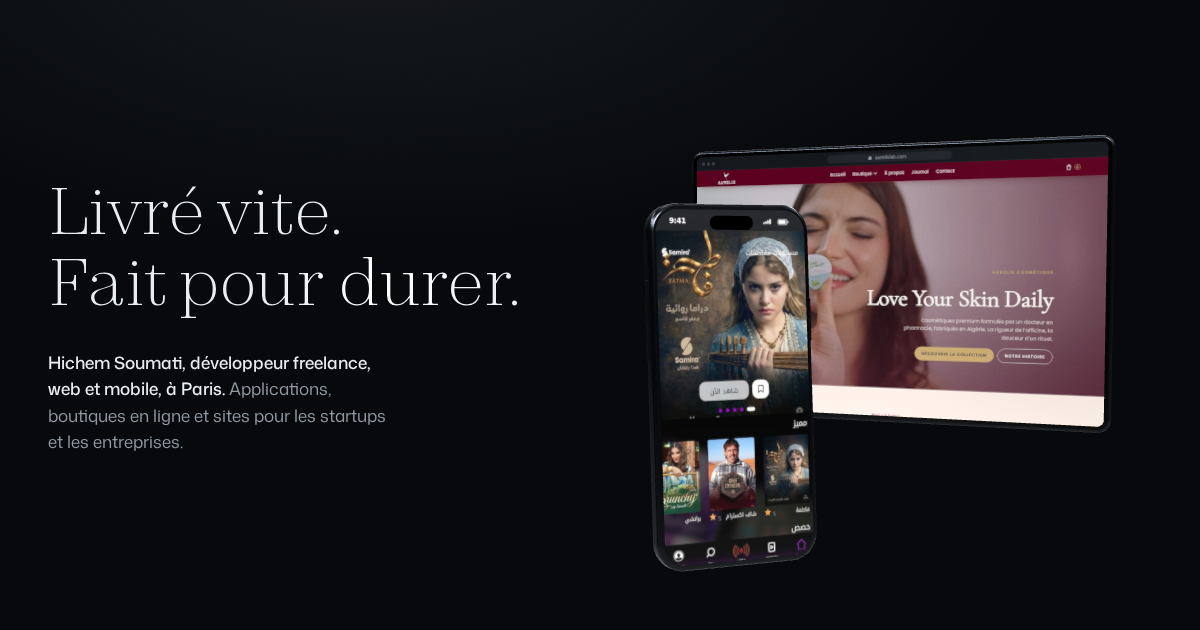
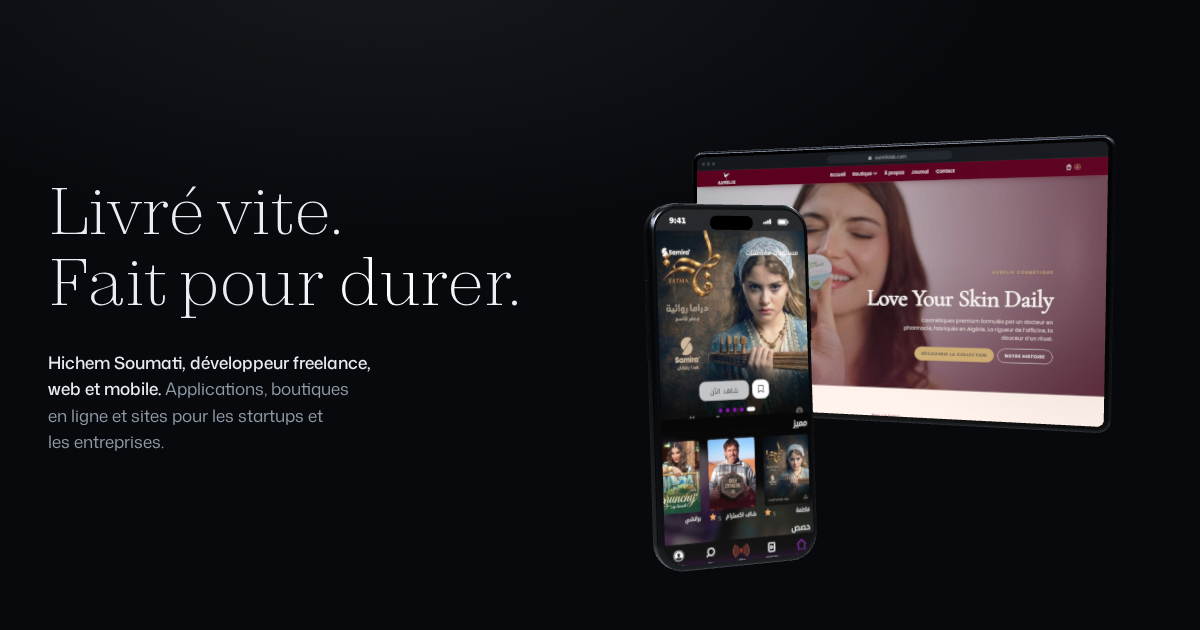
Drop the Paris mentions
The hero line, page titles, description, footer and legal pages no longer
name a city. The CNIL's own postal address stays on the privacy page.

Changed region(s): [[0.0308, 0.6032, 0.3083, 0.7238]]

diff --git a/src/i18n/ui.ts b/src/i18n/ui.ts
@@ -7,12 +7,12 @@ export const privacyPath = (lang: Lang) => (lang === 'fr' ? '/confidentialite/' 
 export const ui = {
   meta: {
     title: {
-      fr: 'Studio Faber | Hichem Soumati, développeur freelance web et mobile à Paris',
-      en: 'Studio Faber | Hichem Soumati, freelance web and mobile developer in Paris',
+      fr: 'Studio Faber | Hichem Soumati, développeur freelance web et mobile',
+      en: 'Studio Faber | Hichem Soumati, freelance web and mobile developer',
     },
     description: {
-      fr: 'Applications web, boutiques en ligne, applications mobiles et sites de marque, pour les startups et les entreprises. Développeur freelance à Paris.',
-      en: 'Web apps, online stores, mobile apps and brand sites for startups and businesses. Freelance developer in Paris.',
+      fr: 'Applications web, boutiques en ligne, applications mobiles et sites de marque, pour les startups et les entreprises. Développeur freelance, web et mobile.',
+      en: 'Web apps, online stores, mobile apps and brand sites for startups and businesses. Freelance developer, web and mobile.',
     },
   },
   skip: { fr: 'Aller au contenu', en: 'Skip to content' },
@@ -31,7 +31,7 @@ export const ui = {
     label: { fr: 'Présentation et services', en: 'Introduction and services' },
     statement: { fr: ['Livré vite.', 'Fait pour durer.'], en: ['Built to ship.', 'Built to last.'] },
     statementText: { fr: 'Livré vite. Fait pour durer.', en: 'Built to ship. Built to last.' },
-    who: { fr: 'Hichem Soumati, développeur freelance, web et mobile, à Paris.', en: 'Hichem Soumati, freelance developer, web and mobile, in Paris.' },
+    who: { fr: 'Hichem Soumati, développeur freelance, web et mobile.', en: 'Hichem Soumati, freelance developer, web and mobile.' },
     what: {
       fr: 'Applications, boutiques en ligne et sites pour les startups et les entreprises.',
       en: 'Apps, online stores and websites for startups and businesses.',
@@ -76,7 +76,6 @@ export const ui = {
   },
   footer: {
     credit: { fr: 'Conçu et développé par Hichem Soumati', en: 'Designed and built by Hichem Soumati' },
-    place: { fr: 'Paris, France', en: 'Paris, France' },
     legal: { fr: 'Mentions légales', en: 'Legal notice' },
     privacy: { fr: 'Confidentialité', en: 'Privacy' },
     cookies: { fr: 'Gérer les cookies', en: 'Manage cookies' },
